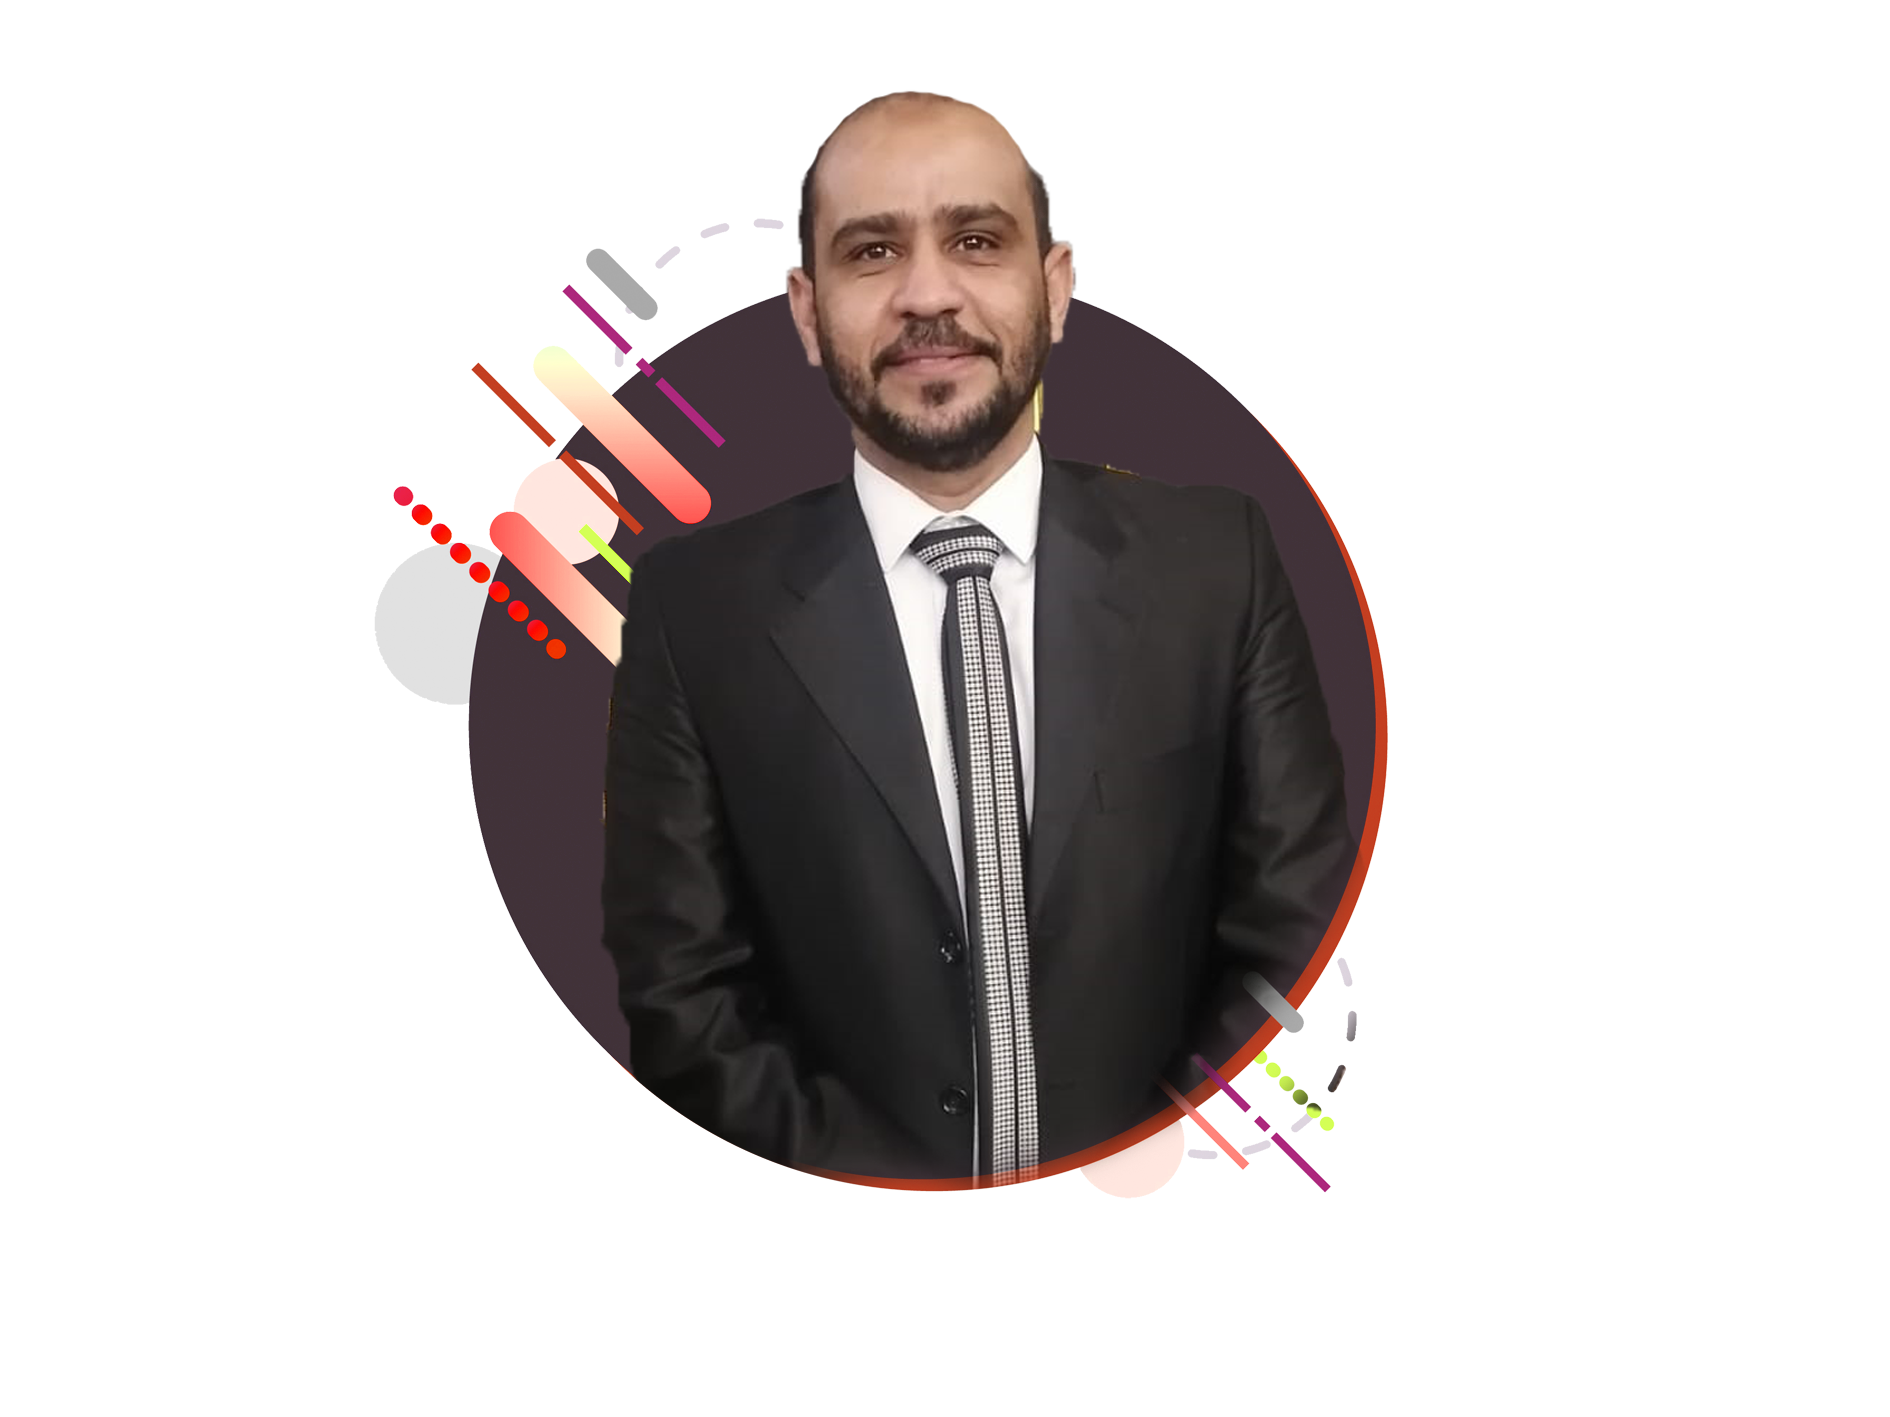
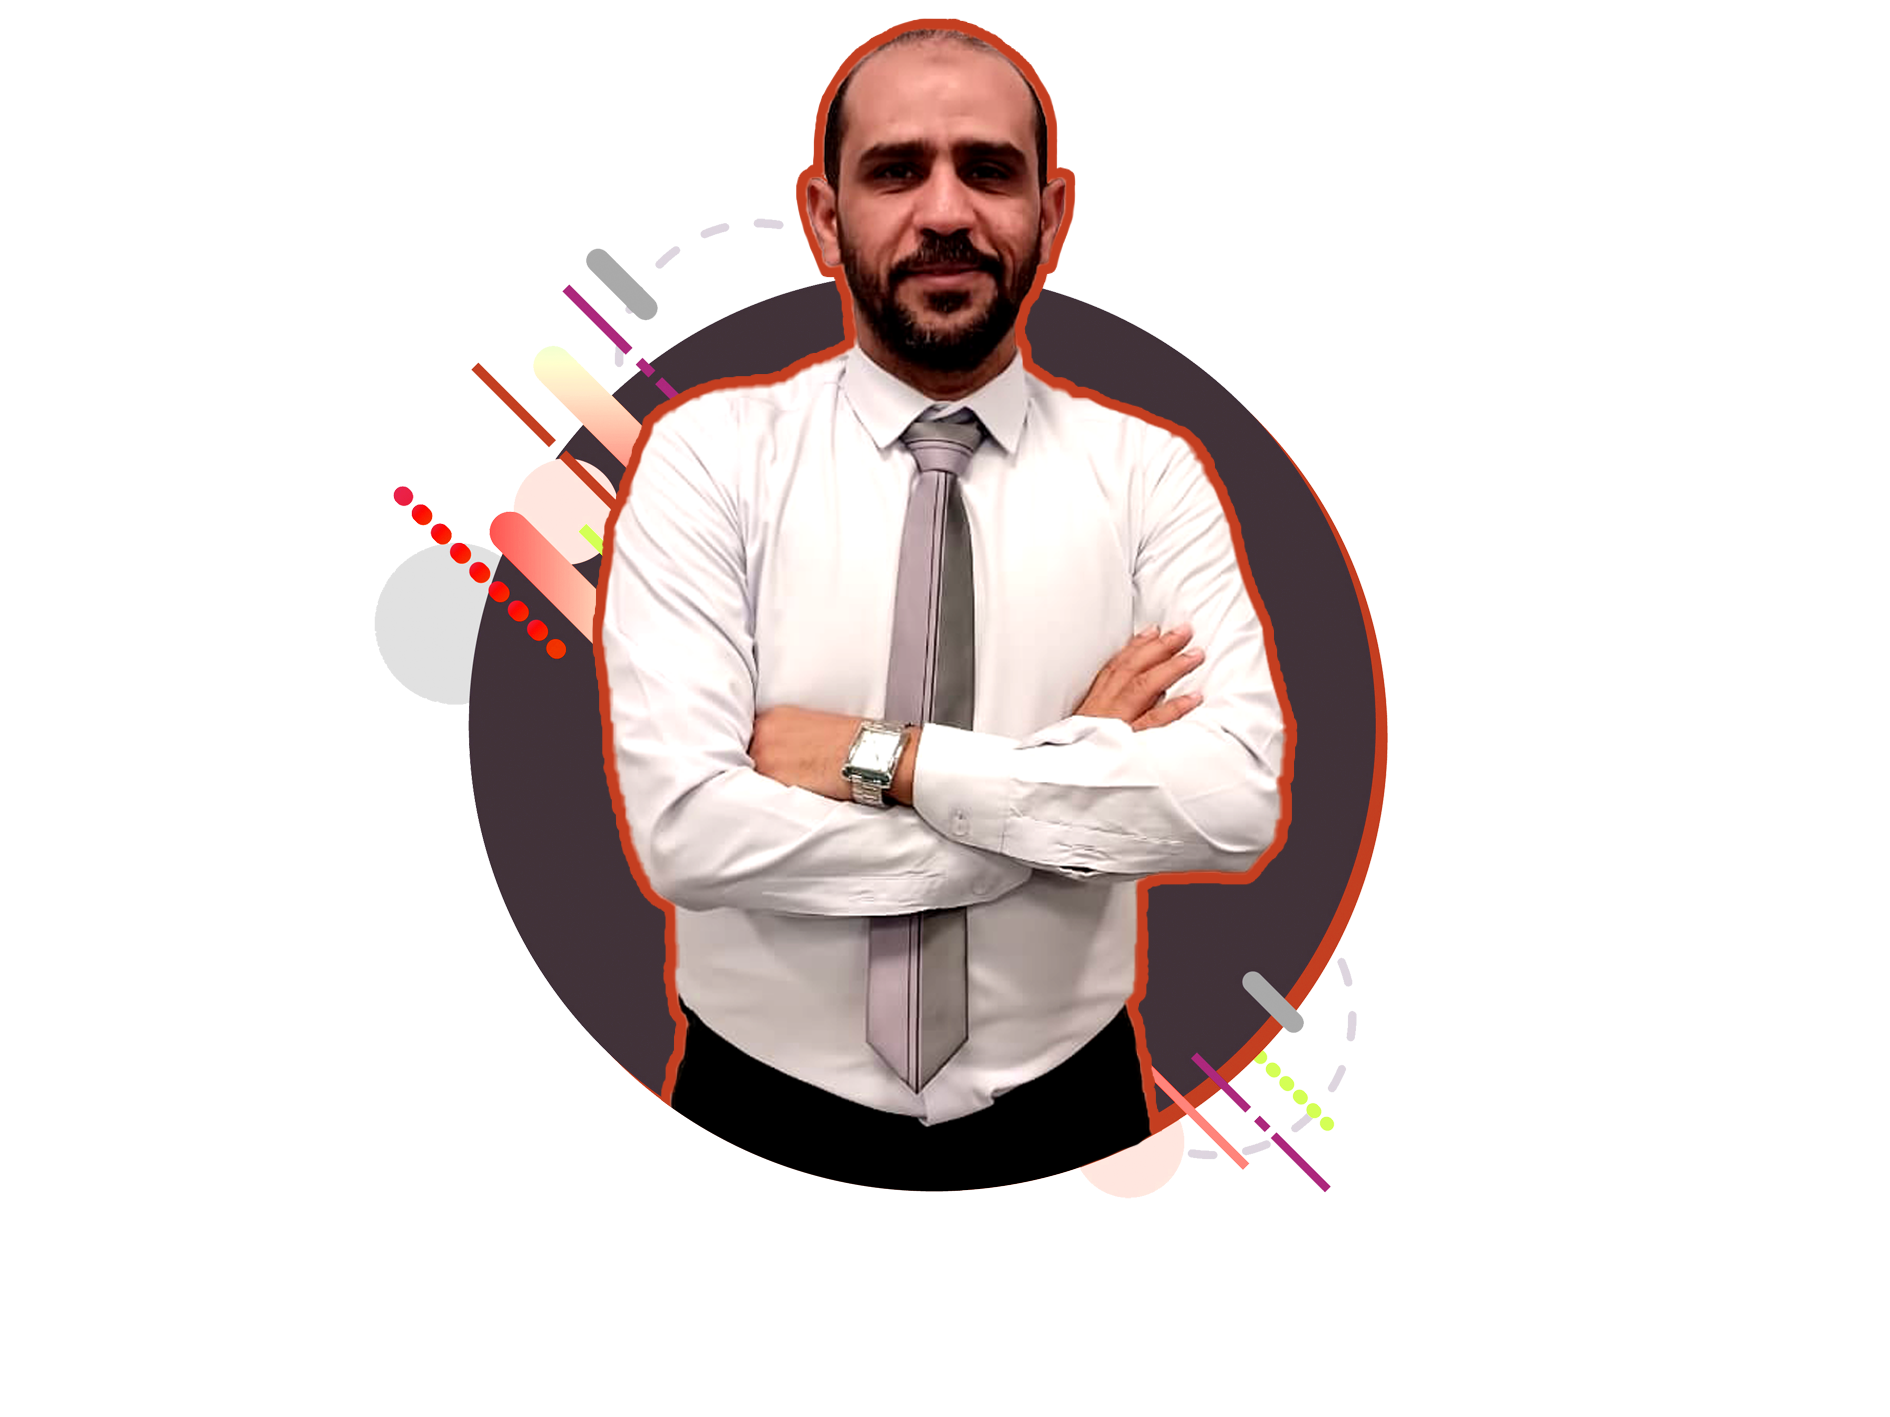
updating photo, and adding grade

Changed region(s): [[0.3122, 0.0, 0.718, 0.8384], [0.6868, 0.7452, 0.718, 0.7763]]

diff --git a/public/index.html b/public/index.html
@@ -15,6 +15,8 @@
     <link href="https://fonts.googleapis.com/css2?family=Cairo:wght@200..1000&family=Marhey:wght@300..700&family=Poppins&family=Rubik:ital,wght@0,300..900;1,300..900&display=swap" rel="stylesheet">
     <link href="https://fonts.googleapis.com/css2?family=Cairo:wght@200..1000&family=Poppins&family=Rubik:ital,wght@0,300..900;1,300..900&display=swap" rel="stylesheet">
     <link href="https://fonts.googleapis.com/css2?family=Lalezar&display=swap" rel="stylesheet">
+    <link href="https://fonts.googleapis.com/css2?family=Concert+One&display=swap" rel="stylesheet">
+
     <!--
       manifest.json provides metadata used when your web app is installed on a
       user's mobile device or desktop. See https://developers.google.com/web/fundamentals/web-app-manifest/

diff --git a/src/App.css b/src/App.css
@@ -205,7 +205,7 @@
 
 .firstName, .secondName {
   font-weight: bold;
-  font-size: 90px;
+  font-size: 100px;
   font-family: 'Rubik', sans-serif;
   animation-name: name-animation;
   animation-duration: 2s;
@@ -773,7 +773,7 @@ button {
 
 .card {
   width: 200px;
-  margin: 25px;
+
 }
 
 .card .icon {
@@ -882,18 +882,22 @@ button {
 
 @media screen and (max-width: 768px) {
   .header {
-    flex-direction: column;
     padding: 10px 20px;
+  }
+  .header button{
+    padding: 10px 15px;
+    margin-right: 10px;
   }
 
   .logo-link img {
-    max-height: 50px; /* Smaller logo */
+    max-height: 50px;
   }
 
   .nav {
     flex-direction: column;
     align-items: center;
     gap: 10px; /* Smaller gap between links */
+    display: none;
   }
 
   .nav .link {

diff --git a/src/pages/Home.js b/src/pages/Home.js
@@ -25,6 +25,13 @@ const Home = () => {
           color: '#25a9cb'
         },
         {
+            title: 'الصف الثاني الإعدادي',
+            subtitle: 'حكومي - لغات',
+            description: '04',
+            Component: "https://i.ibb.co/zPQSCJq/2prep.jpg",
+            color: '#25a9cb'
+          },
+        {
           title: 'الصف الثالث الإعدادي',
           subtitle: 'حكومي - لغات',
           description: '05',
